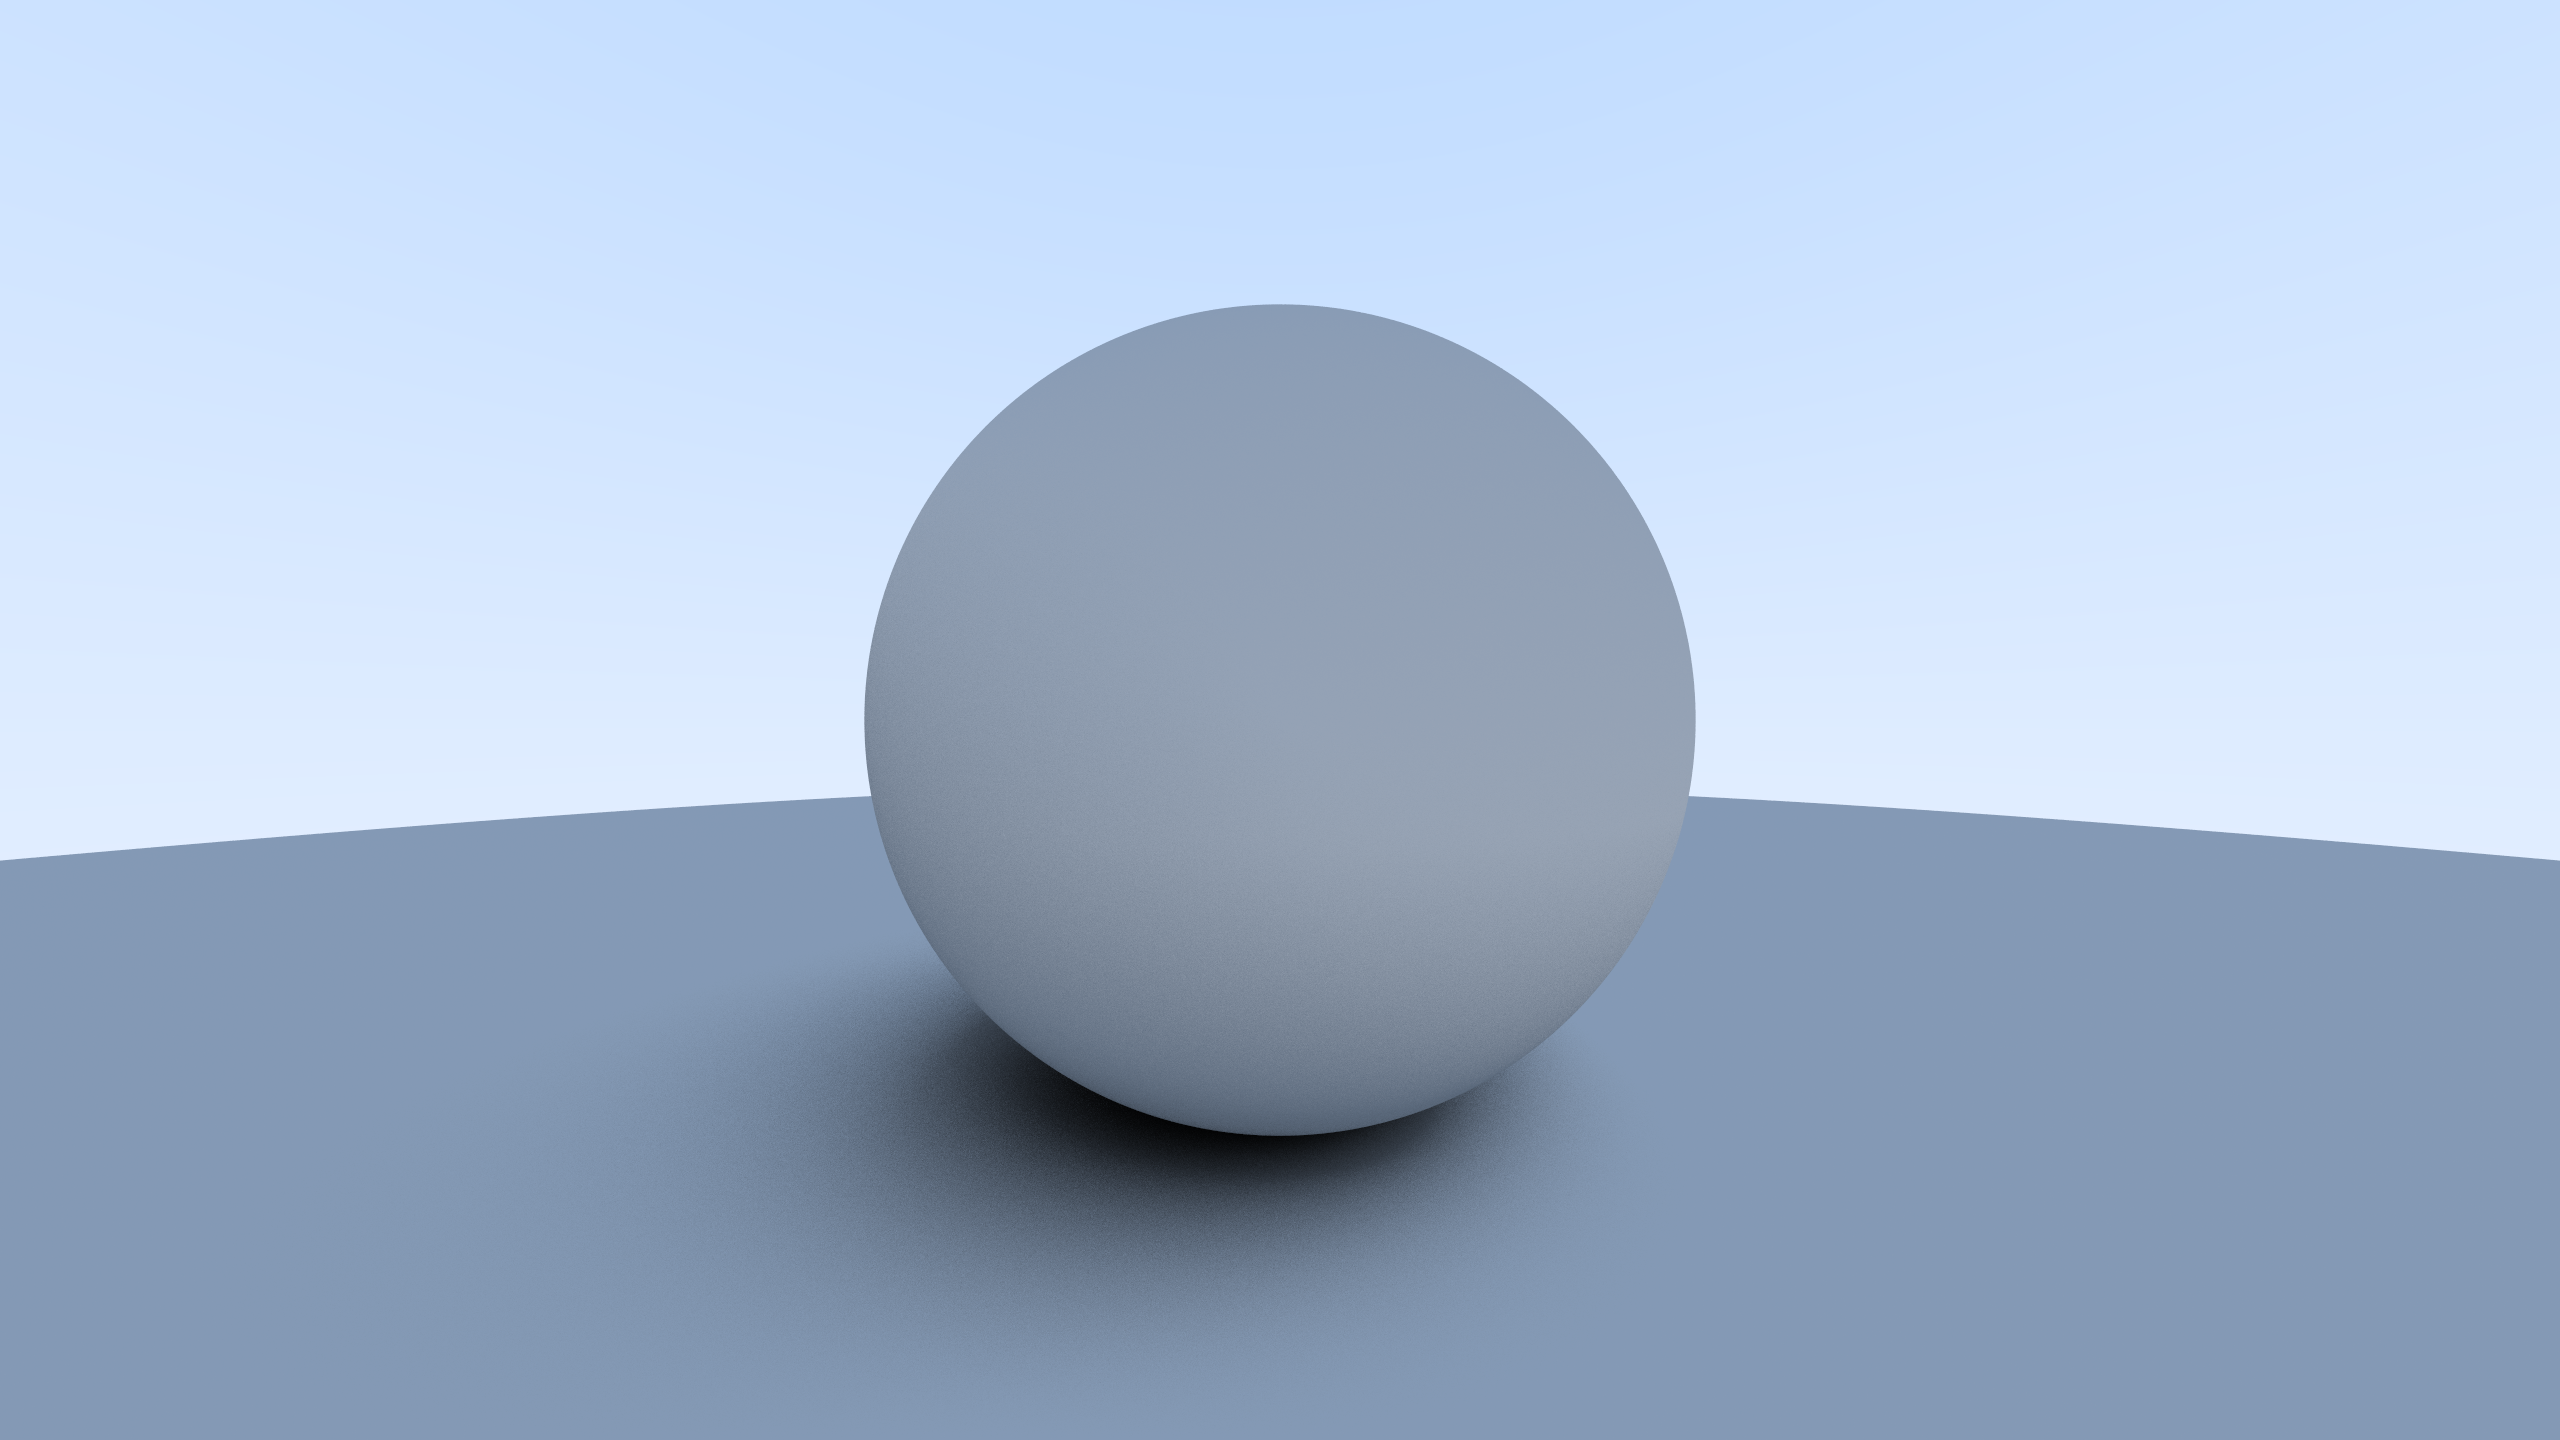
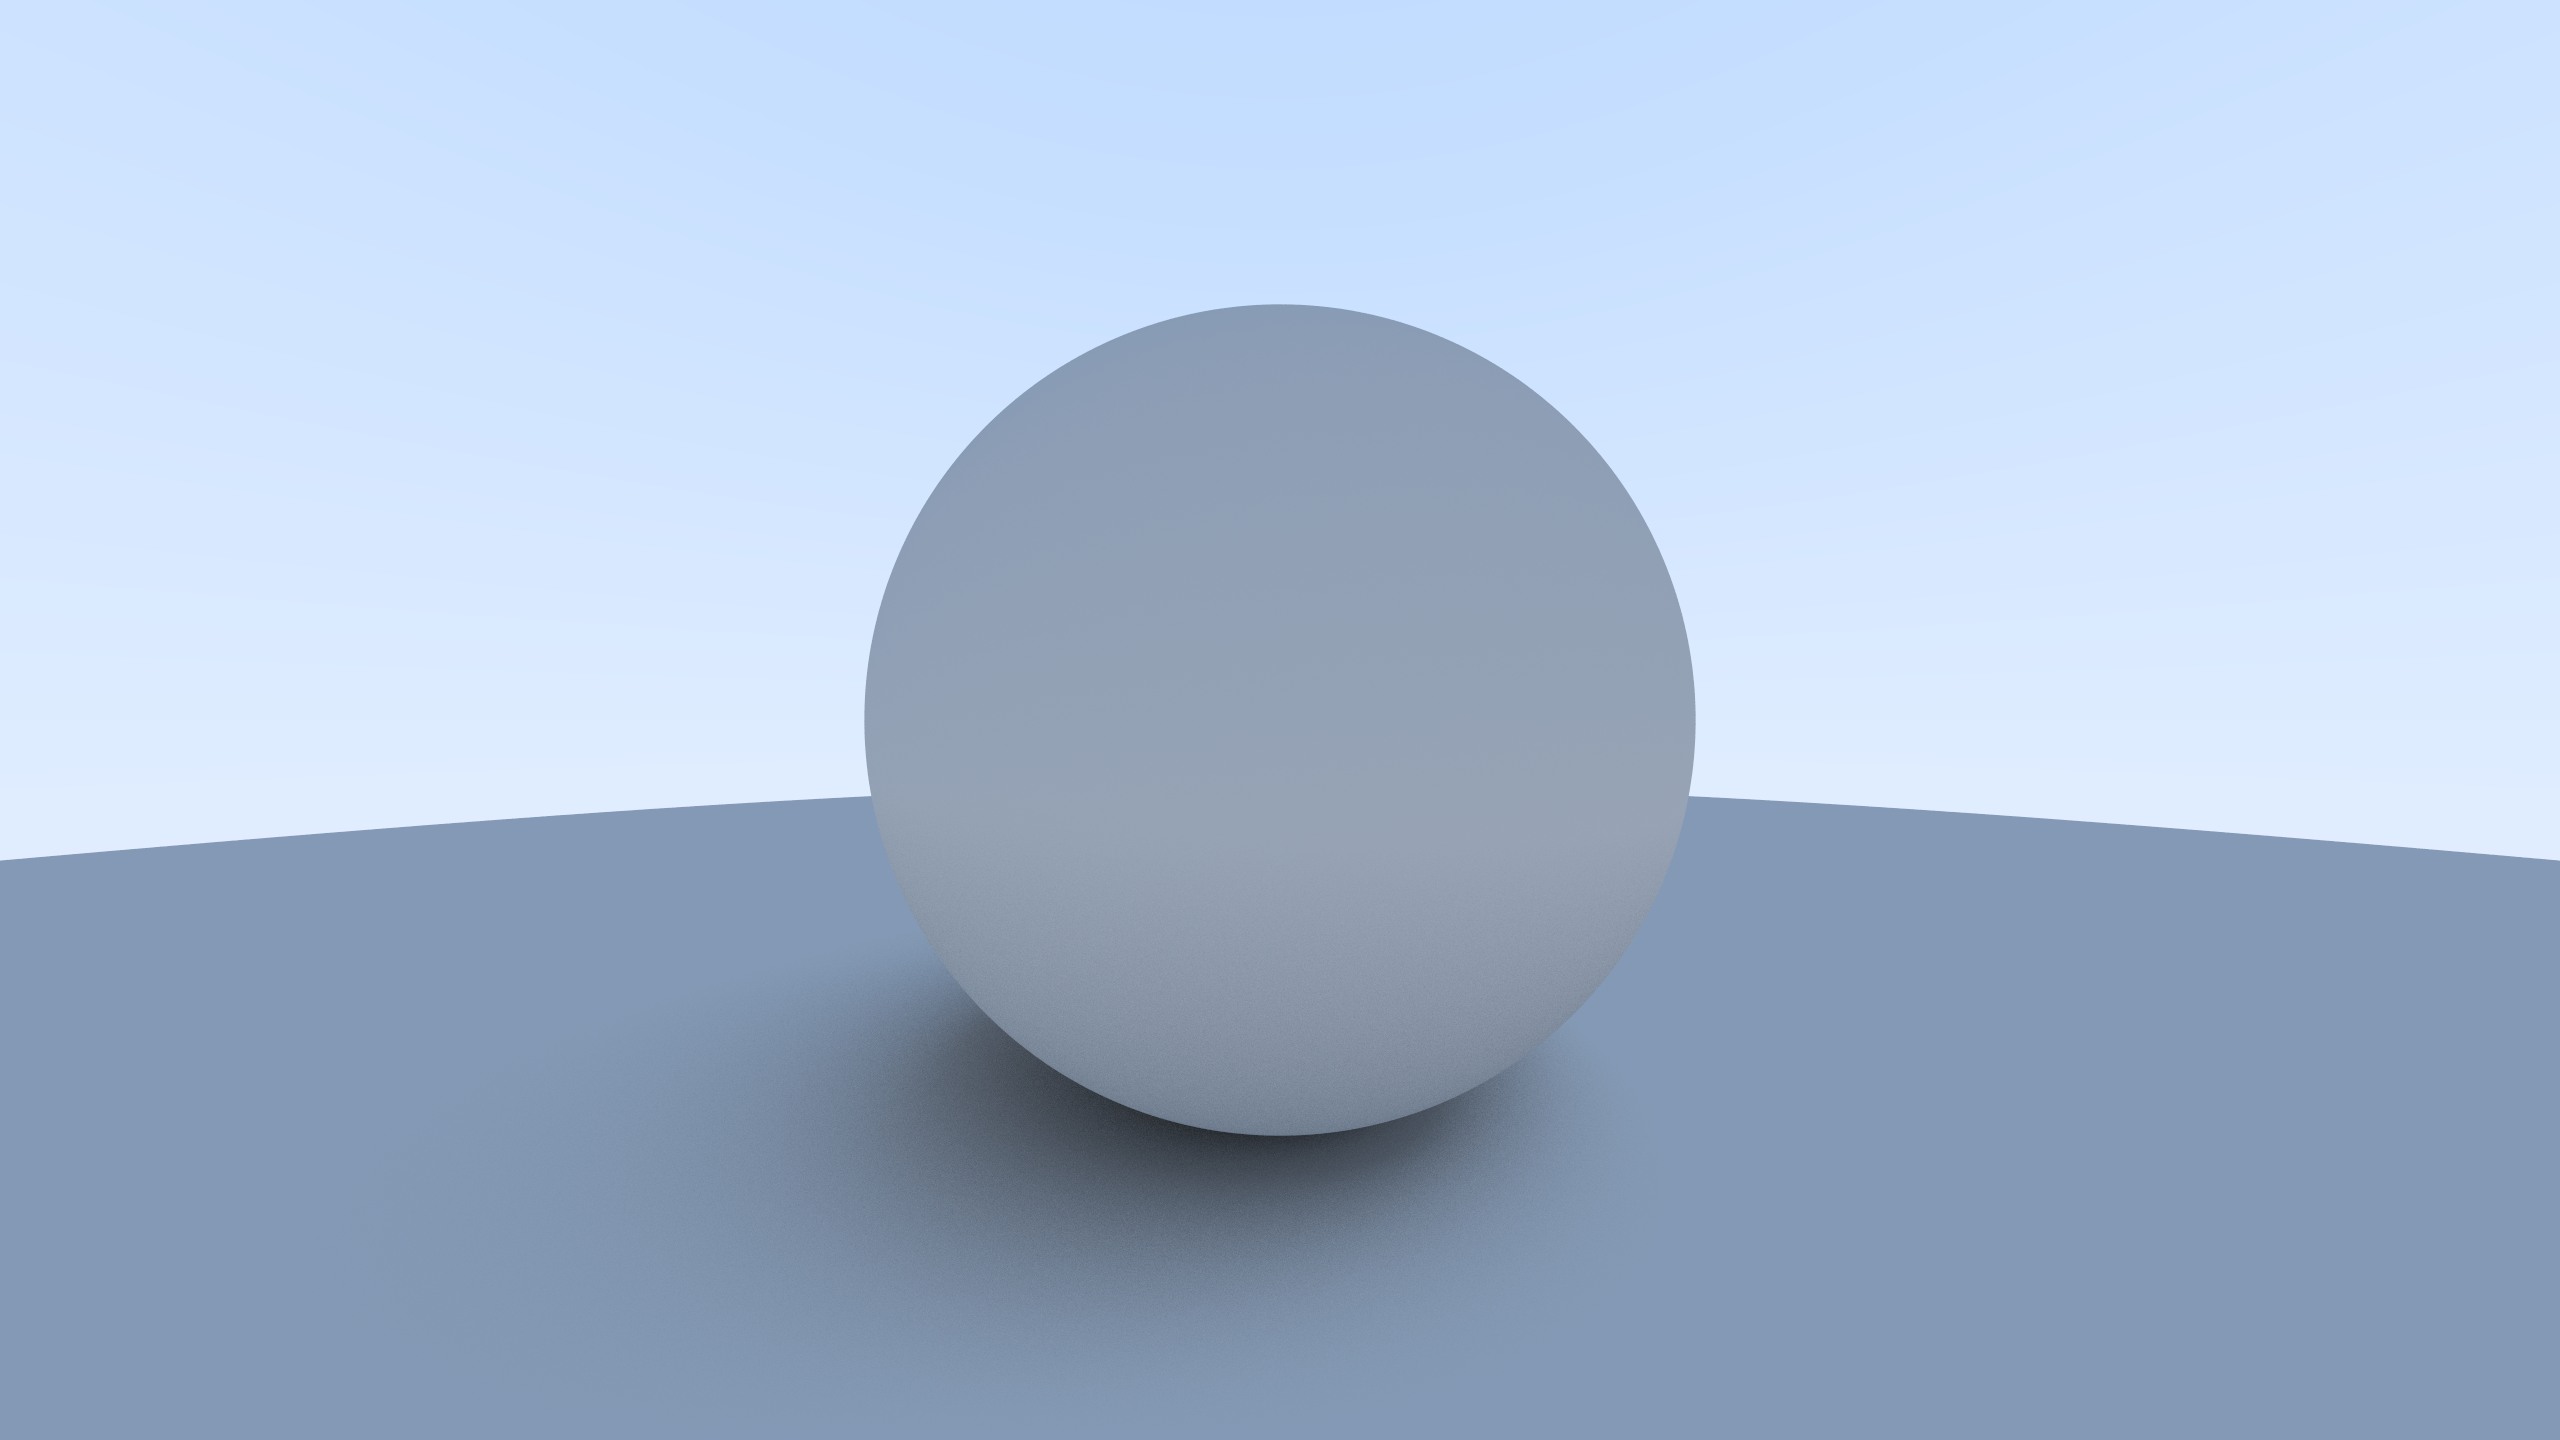
Fixed contact shadows / ambient occlusion

Changed region(s): [[0.3125, 0.5, 0.5938, 0.8438]]

diff --git a/Amarelo/src/Rendering/Camera.cpp b/Amarelo/src/Rendering/Camera.cpp
@@ -20,7 +20,7 @@ vec3<float> Camera::RayColor(const Ray& ray, uint32_t maxBounces, const Hittable
 	//although being a darker version of the original purple (because of the halves).
 	if (world.Hit(ray, Interval(0.001, Amrl::g_AmrlInfinity), result))
 	{
-		vec3 dir = result.surfaceNormal + Amrl::RandomOnHemisphere(result.surfaceNormal);
+		vec3 dir = result.surfaceNormal + Amrl::RandomUnitVector();
 		return 0.5f * RayColor(Ray(result.hitLocation, dir), (maxBounces - 1), world);
 	}
 
